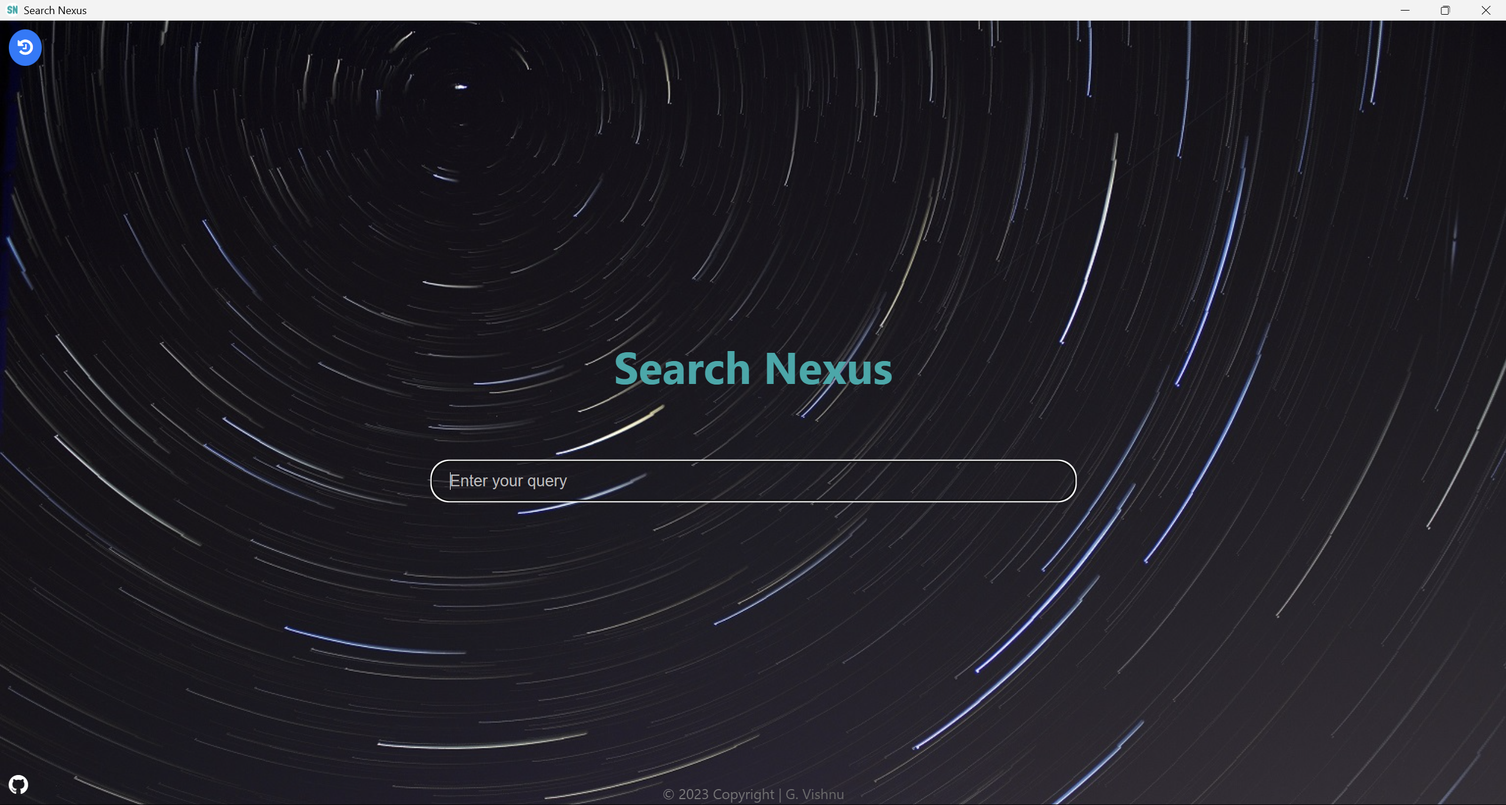
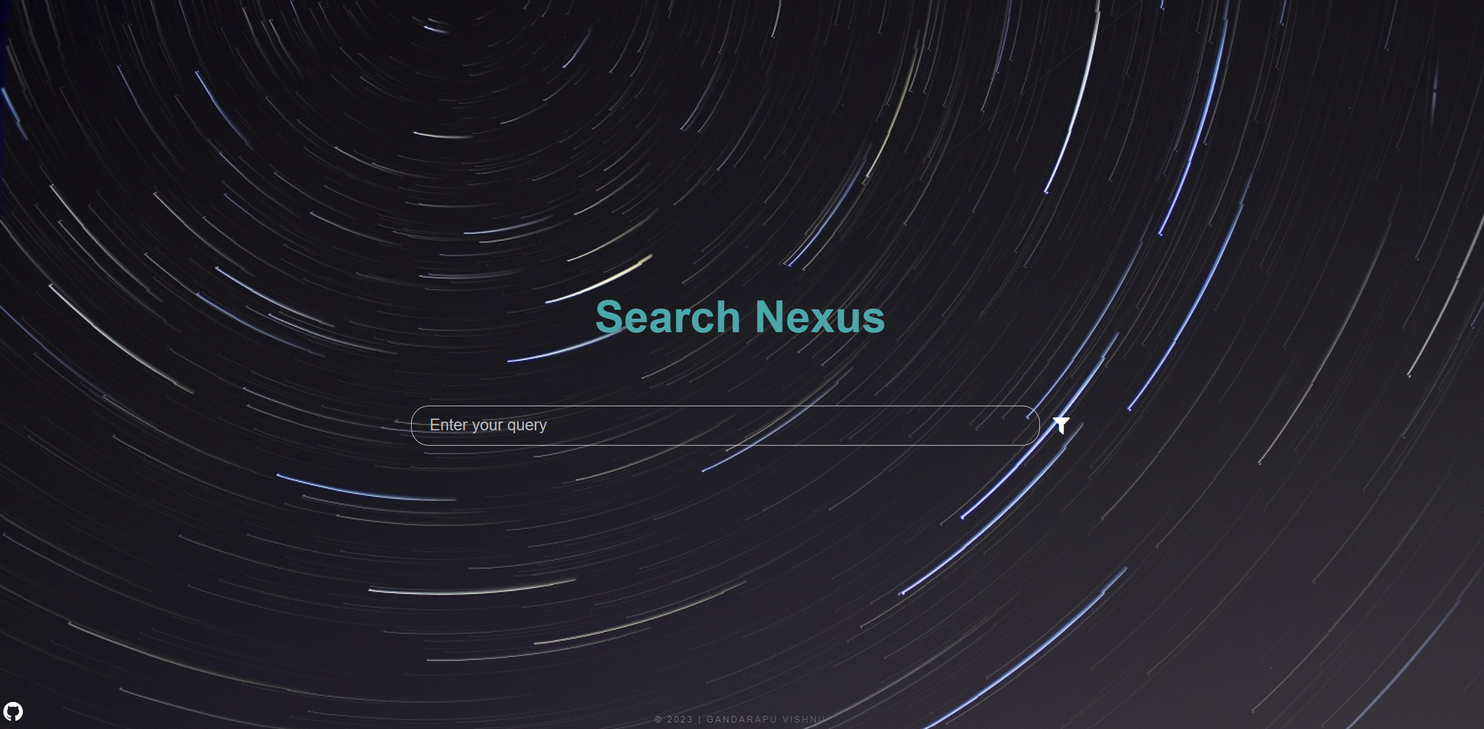
added search-nexus url

diff --git a/index.html b/index.html
@@ -48,31 +48,6 @@
 							height="30"
 							style="margin: 6px; position: relative; top: -5px;"
 							>
-						</a>						
-						<a href="https://www.youtube.com/@gv1shnu"
-						target="_blank">
-						
-							<img src="./images/icons/youtube.png"
-							width="40"
-							height="40"
-							style="margin: 6px; position: relative; top: 2px;"
-							>
-						</a>						
-						<a href="https://www.instagram.com/gv1shnu/"
-						target="_blank">						
-							<img src="./images/icons/instagram.png"
-							width="40"
-							height="40"
-							style="margin: 6px; position: relative; top: -1px;"
-							>
-						</a>
-						<a href="https://www.twitter.com/gv1shnu/"
-						target="_blank">						
-							<img src="./images/icons/twitter.png"
-							width="30"
-							height="30"
-							style="margin: 6px; position: relative; top: -5px;"
-							>
 						</a>
 					</div>
 			<!-- Main -->
@@ -82,7 +57,7 @@
 							<h2 class="major">Projects</h2>
 							<div>
 								<h2>Search Nexus</h2>
-								<h5><a href="https://github.com/gv1shnu/SearchNexus">Github repo</a></h5>
+								<h5><a href="https://searchnexus.net/">searchnexus.net</a></h5>
 								<h4>Programming Languages</h4>
 								<h4>
 									<img src="./images/html.png" width="50px" height="50px">
@@ -98,7 +73,7 @@
 								<h4>Developed a search engine aggregator for efficient information retrieval.</h4>
 								<h5>May 2023 - Present</h5>									
 								<span class="image main">
-									<img src="./images/homepage.jpg" alt="searchnexus-homepage"/>
+									<img src="./images/homepage.png" alt="searchnexus-homepage"/>
 								</span>
 							</div>
 							<hr>
